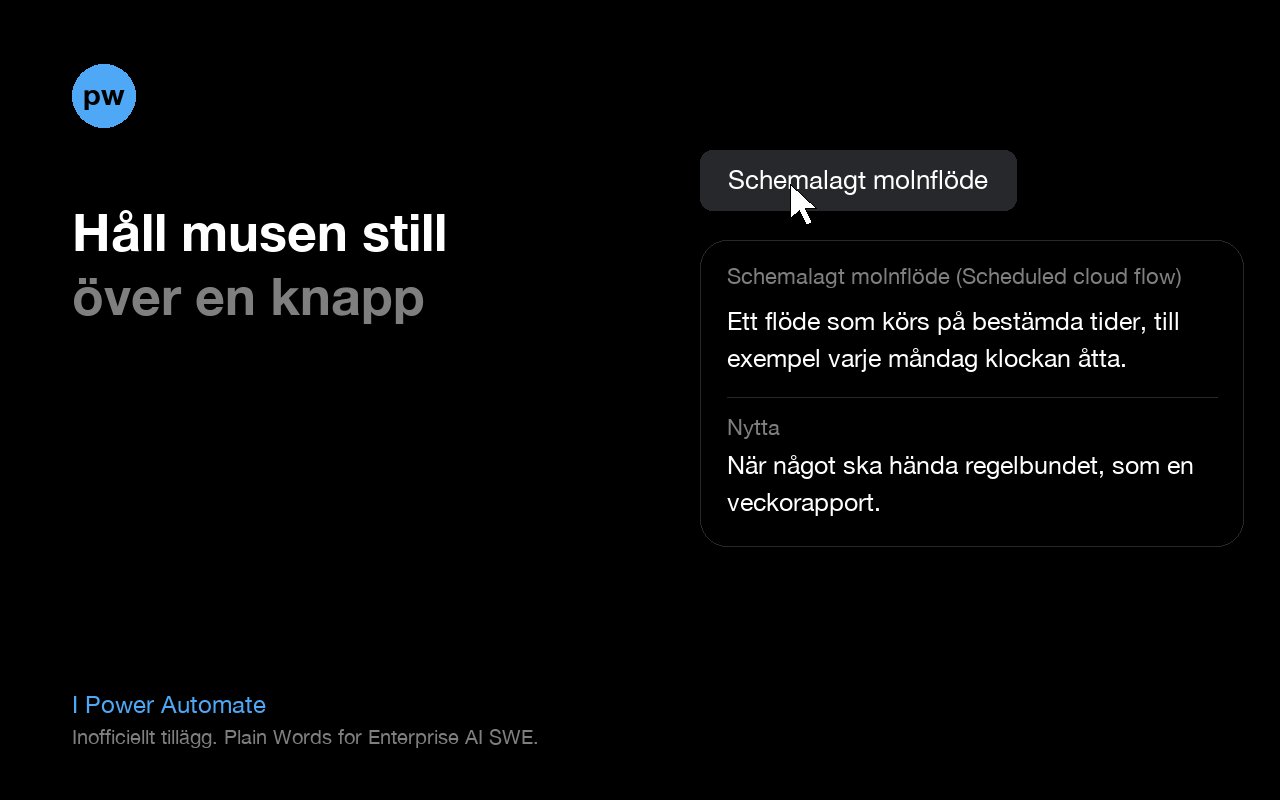
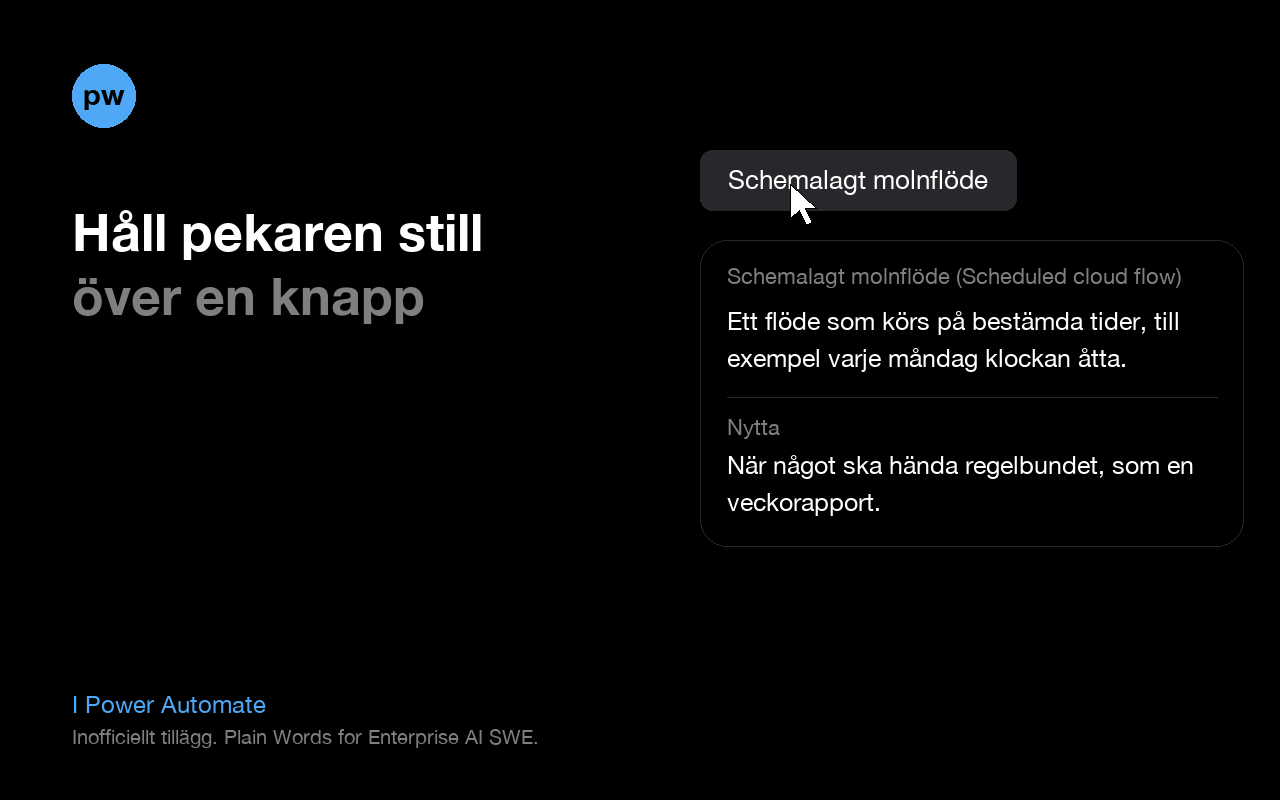
Skärmbild 1: pekaren i stället för musen

Changed region(s): [[0.1562, 0.25, 0.375, 0.3125]]

diff --git a/tools/make_store_images.py b/tools/make_store_images.py
@@ -59,19 +59,19 @@ def slide(n, key, chip, head1, head2, where, fname):
     d.text((72, 264), head2, font=F(52, True), fill=(0x7f, 0x7f, 0x7f))
     d.text((72, 690), where, font=F(24), fill=ACCENT)
     d.text((72, 724), "Inofficiellt tillägg. Plain Words for Enterprise AI SWE.", font=F(20), fill=(0x7f, 0x7f, 0x7f))
-    # Knappen som musen står på, ritad neutralt, och bubblan under den.
+    # Knappen som pekaren står på, ritad neutralt, och bubblan under den.
     fc = F(26); cw = int(d.textlength(chip, font=fc)) + 56
     cx, cy = 700, 150
     d.rounded_rectangle([cx, cy, cx + cw, cy + 60], radius=12, fill=(0x26, 0x28, 0x2b))
     d.text((cx + 28, cy + 14), chip, font=fc, fill=(255, 255, 255))
-    # muspekare
+    # pekaren
     px, py = cx + min(cw - 30, 90), cy + 34
     d.polygon([(px, py), (px, py + 34), (px + 9, py + 26), (px + 16, py + 41), (px + 22, py + 38), (px + 15, py + 24), (px + 26, py + 24)], fill=(255, 255, 255), outline=(0, 0, 0))
     b = bubble(key)
     img.paste(b, (cx, cy + 90), b)
     img.save(f"{OUT}/screenshots/{n}_screenshot_{fname}_1280x800.png")
 
-slide(1, "a-scheduled-flow", "Schemalagt molnflöde", "Håll musen still", "över en knapp", "I Power Automate", "schemalagt")
+slide(1, "a-scheduled-flow", "Schemalagt molnflöde", "Håll pekaren still", "över en knapp", "I Power Automate", "schemalagt")
 slide(2, "create-product-subscribe", "Konfigurera + prenumerera", "Varnar innan", "något kostar pengar", "I Azure-portalen", "prenumerera")
 slide(3, "resource-groups", "Resursgrupper", "Orden du möter", "hela tiden", "I Azure-portalen", "resursgrupper")
 slide(4, "f-nav-build", "Version", "Även ord som", "blivit fel översatta", "I Foundry", "version")
